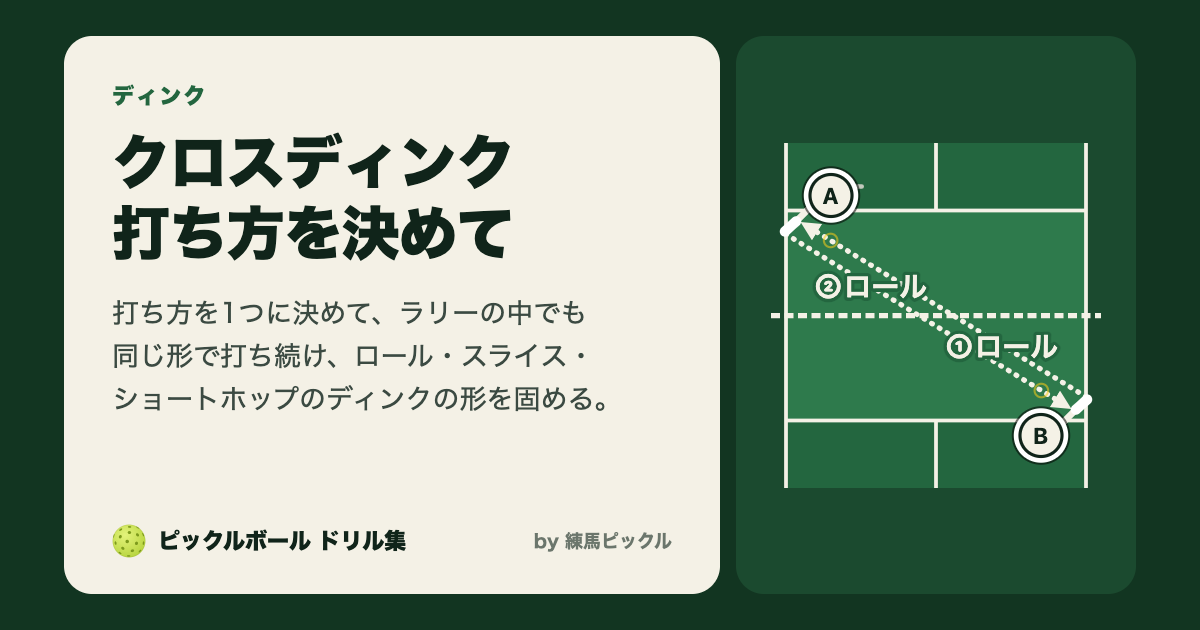
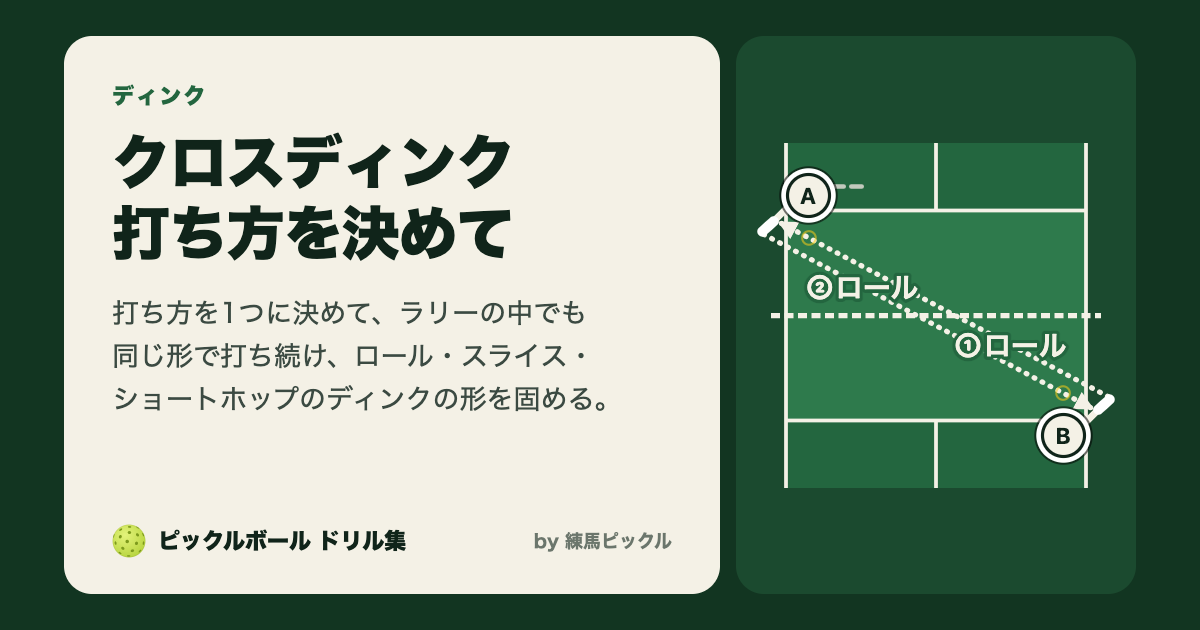
Record per-stroke dink speeds and targets; regenerate share images
Claude-Session: https://claude.ai/code/session_013HpVCpnFevpdjrfSLpZjQ3

Changed region(s): [[0.6167, 0.2413, 0.925, 0.754]]

diff --git a/.claude/skills/add-drill/SKILL.md b/.claude/skills/add-drill/SKILL.md
@@ -125,7 +125,7 @@ drill:
 - **ドロップの的（柵）**：ドロップ系の練習は、相手のキッチンに柵をL字に置き、柵に当てずに柵の内側へ落とす。`fence: far-left` のように「手前/奥-左/右」で書くと、サイドラインから40cm・キッチンラインからパドル1本分の位置をコードが計算する（`FENCE`）。着地点は `to: fence.inside`（柵の内側）、クロスドロップは柵の角をねらうので `to: fence.corner`。
 - **コートの使い方**：ストレートは同じ x（例: 5 と 5）、クロスは対角（例: 5 と 15）。半面は左半分（x: 0〜10）の中に置き、`zones: [left]` で示す。
 - **人**：`role` は `feed`（球出し役）/ `practice`（練習役）/ `partner`（味方）/ `opponent`（相手）。全員右利きとして自動で腕とパドルを描く。構えを変えるときだけ `paddle: fh | bh` を付ける。
-- **打球**：`type` は `dink` `sliceDink`（スライスディンク: 面を少し上へ開いたまま短く前へ運ぶ。上から下へは切らない） `shortHop`（ショートホップ: 弾んだ直後のすねの高さの球を、ひざを深く曲げて体の前で取り、手首を固めたまま短く運ぶ。受ける球は、受ける人のすぐ手前で弾む） `drop`（腰より下の球だけ。腰より上の `hit` を書くと図を作るときに止まる） `reset` `drive` `speedup` `lob` `smash` `serve` `return` とボレーの4種類、人の動きは `move`。ボレーは `volleyDink`（ボレーディンク: ネットより下で当てて、弧を描いてポトッと落とす。ディンクやドロップをノーバウンドで受けるとき）、`block`（ブロックボレー: 速い球を、パドルを立てた面で止めて返す。腰より低い球には使わない。低い球はリセットにする。図を作るときに確かめていて、腰より低い `hit` を書くと止まる）、`roll`（ロールボレー: 回転をかけて沈める）、`punch`（パンチボレー: 上から足元へ打ち込む。ファイヤーファイトの打ち合い）から選ぶ。来た球をパドルで受けて勢いを殺してから打つ（トラップ）ときは、`dinkTrap`（ディンク（トラップ）: 足元でワンバウンドさせてからディンク）、`sliceDinkTrap`（スライスディンク（トラップ））、`resetTrap`（リセット（トラップ）: 弾ませずに、ポンと上げた球をリセット）、`volleyTrap`（ボレー（トラップ）: 弾ませずに、ポンと上げた球をボレーディンク）を使う。トラップの動きはコードが付けるので `afterBounce` は書かない。トラップのあいだは図に「トラップ」と自動で出る。ディンクのトラップでは、来た球は手前で一度弾んでから受ける（`bounce: front` を書く）。トラップしてからもう一度弾むので、試合では反則だが、練習の形として書き手と決めた。リセットを打つ人は自動でバックハンドの構えになり、スピードアップやカウンターを受けて打つリセットは、`hit` を書かなければ腰の高さになる。線の形・太さ・アニメーションの速さは種類で自動で決まる（線はまっすぐ）（`src/config/court.ts`、「図の見方」ページ）。
+- **打球**：`type` は `dink` `rollDink`（ロールディンク: 順回転をかけるディンク。ディンクの仲間でいちばん速く、鋭いクロスを狙う） `sliceDink`（スライスディンク: 面を少し上へ開いたまま短く前へ運ぶ。上から下へは切らない） `shortHop`（ショートホップ: 弾んだ直後のすねの高さの球を、ひざを深く曲げて体の前で取り、手首を固めたまま短く運ぶ。受ける球は、受ける人のすぐ手前で弾む） `drop`（腰より下の球だけ。腰より上の `hit` を書くと図を作るときに止まる） `reset` `drive` `speedup` `lob` `smash` `serve` `return` とボレーの4種類、人の動きは `move`。ボレーは `volleyDink`（ボレーディンク: ネットより下で当てて、弧を描いてポトッと落とす。ディンクやドロップをノーバウンドで受けるとき）、`block`（ブロックボレー: 速い球を、パドルを立てた面で止めて返す。腰より低い球には使わない。低い球はリセットにする。図を作るときに確かめていて、腰より低い `hit` を書くと止まる）、`roll`（ロールボレー: 回転をかけて沈める）、`punch`（パンチボレー: 上から足元へ打ち込む。ファイヤーファイトの打ち合い）から選ぶ。来た球をパドルで受けて勢いを殺してから打つ（トラップ）ときは、`dinkTrap`（ディンク（トラップ）: 足元でワンバウンドさせてからディンク）、`sliceDinkTrap`（スライスディンク（トラップ））、`resetTrap`（リセット（トラップ）: 弾ませずに、ポンと上げた球をリセット）、`volleyTrap`（ボレー（トラップ）: 弾ませずに、ポンと上げた球をボレーディンク）を使う。トラップの動きはコードが付けるので `afterBounce` は書かない。トラップのあいだは図に「トラップ」と自動で出る。ディンクのトラップでは、来た球は手前で一度弾んでから受ける（`bounce: front` を書く）。トラップしてからもう一度弾むので、試合では反則だが、練習の形として書き手と決めた。リセットを打つ人は自動でバックハンドの構えになり、スピードアップやカウンターを受けて打つリセットは、`hit` を書かなければ腰の高さになる。線の形・太さ・アニメーションの速さは種類で自動で決まる（線はまっすぐ）（`src/config/court.ts`、「図の見方」ページ）。
 - **球出しの球は、練習する打ち方に合わせる**：派生形で打ち方を変えるドリルは、球出しの球も打ち方に合わせて変え、`feed`（派生形ごとの `feed` も）に、どんな球を出すかを具体的に書く（例: ロールはゆっくりで少し高めに弾む打ちやすい球、スライス・ショートホップは少し攻めるような速めで低い足元への球）。図では、球出しの線の名前（「球出し（ゆっくり・高め）」など）と山の高さ（`peak`）で違いを見せる（書き手と決めた 2026-11-28）。
 - **球出しは球種ではない**：球出しの球は、出す球の種類を `type` に書き、`feed: true` を付ける（名前は「球出し（ディンク）」になる）。
 - **順番 `n`**：打つ順に 1, 2, 3… と付ける。番号ごとに1コマになり、アニメーションで1手ずつ再生される。同じ番号の線は同時に動く。
